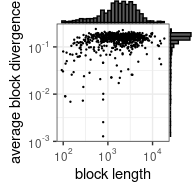
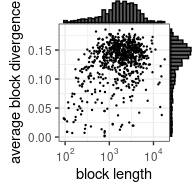
chisquare

diff --git a/README.md b/README.md
@@ -1,6 +1,6 @@
 segmut
 ================
-2022-12-10
+2022-12-12
 
 <!-- README.md is generated from README.Rmd. Please edit that file -->
 
@@ -18,9 +18,10 @@ You can install the development version of segmut from
 [GitHub](https://github.com/) with:
 
 ``` r
+# detach("package:segmut", unload=TRUE)
 # install.packages("devtools")
 # Sys.unsetenv("GITHUB_PAT")
-# install.packages("/home/misha/Documents/Development/segmut/", repos = NULL, type = "source")
+# install.packages("/home/misha/Documents/Development/segmut/", repos = NULL, type = "source",force=TRUE)
 devtools::install_github("mishashe/segmut")
 ```
 
@@ -58,12 +59,13 @@ library(scales)
 #> 
 #>     col_factor
 library(ggExtra)
+library(stringi)
 ```
 
 To set parameters
 
 ``` r
-Kmin <- 100
+Kmin <- 10
 ```
 
 To generate example of genome of length `L` with vector of mutation
@@ -85,7 +87,7 @@ breaks:
 To find optimal breaks locations given `n=3` number of breaks
 
 ``` r
-res <- getBreaks(muts = muts, L = L, Kmin=Kmin, n=3)
+res <- getBreaksChiSquare(muts = muts, L = L, Kmin=Kmin, n=3)
 ```
 
 To plot the results
@@ -112,11 +114,7 @@ breaks and their locations:
 To find optimal number of breaks
 
 ``` r
-breaks <- getNumberBreaks(muts,L=L,Kmin=Kmin,pThreshold=0.05)
-#> [1] 0
-#> [1] 1.194988e-09 4.185378e-01
-#> [1] 5.534259e-01 2.758467e-01 9.756934e-05
-#> [1] 0.9308560 0.9950918 0.6903301 0.6896496
+breaks <- getNumberBreaksChiSquare(muts,L=L,Kmin=Kmin)
 ```
 
 To plot the results
@@ -148,22 +146,118 @@ system(paste0("nucmer --mum --prefix=",datadir,"align ",file1," ",file2), intern
 #> character(0)
 alignment <- system(paste0("show-aligns -w 500000 ", datadir,"align.delta NZ_CP033020.1 NZ_AP026948.1"), intern = TRUE, wait=TRUE)
 alignment <- alignment[str_detect(alignment,"\\^")]
+alignment <- lapply(1:length(alignment),function(i){gsub("(\\^)\\1{1,}", "\\1", alignment[[i]])}) # removing adjacent mutations
 divergence <- sum(str_count(alignment,"\\^"))/sum(nchar(alignment))
-divergences <- (str_count(alignment,"\\^"))/(nchar(alignment))
+block_divergences <- (str_count(alignment,"\\^"))/(nchar(alignment))
 Ls <- nchar(alignment)
+r <- stri_locate_all(pattern = '^', alignment, fixed = TRUE)
+rs <- c()
+for (i in order(-nchar(alignment))) rs <- c(rs,diff(r[[i]][,1]))
 ```
 
 Plotting divergences and lengths of the alignment blocks (not segmented
 ones):
 
 ``` r
-p <- ggplot(data=data.frame(Ls=Ls,divergences=divergences), aes(Ls, divergences)) + 
+p <- ggplot(data=data.frame(Ls=Ls,block_divergences=block_divergences), aes(Ls, block_divergences)) + 
           geom_point(size=0.2) +
           theme_bw() +
           scale_x_continuous(trans='log10',breaks = 10^(-10:10), labels = trans_format("log10", math_format(10^.x))) +
-          scale_y_continuous(trans='log10',breaks = 10^(-10:10), labels = trans_format("log10", math_format(10^.x))) +
+          # scale_y_continuous(trans='log10',breaks = 10^(-10:10), labels = trans_format("log10", math_format(10^.x))) +
           ylab("average block divergence") + xlab("block length") 
   ggExtra::ggMarginal(p, type = "histogram")
 ```
 
-<img src="man/figures/README-blocks-1.png" width="100%" />
+<img src="man/figures/README-blocks-1.png" width="100%" /> In total
+there are 733 blocks with the total length of 1746795 bp.
+
+Segmenting the blocks using segmut package:
+
+``` r
+Ks <- c()
+taus <- c()
+start_time <- Sys.time()
+for (i in order(-nchar(alignment)))
+{
+  L <- nchar(alignment[[i]])
+  rtemp <- r[[i]][,1]
+  muts <- sort(rtemp + sample(0:0,length(rtemp),replace=TRUE))
+  breaks <- sort(getNumberBreaksChiSquare(muts,L=L,Kmin=1))
+  breaks0L <- c(0,breaks,L)
+  for (j in 1:(length(breaks0L)-1))
+  {
+    Ks <- c(Ks, breaks0L[j+1]-breaks0L[j]+1)
+    taus <- c(taus, sum(muts<breaks0L[j+1] & muts>breaks0L[j])/(breaks0L[j+1]-breaks0L[j]+1))
+  }
+}
+end_time <- Sys.time()
+print(end_time - start_time)
+#> Time difference of 8.159166 mins
+```
+
+Plotting divergences and lengths of the segments:
+
+``` r
+p <- ggplot(data=data.frame(Ks=Ks,taus=taus), aes(Ks, taus)) + 
+          geom_point(size=0.2) +
+          theme_bw() +
+          scale_x_continuous(trans='log10',breaks = 10^(-10:10), labels = trans_format("log10", math_format(10^.x))) +
+          # scale_y_continuous(trans='log10',breaks = 10^(-10:10), labels = trans_format("log10", math_format(10^.x))) +
+          ylab("segment divergence") + xlab("segment length") + 
+          geom_smooth(method="loess",se=TRUE) 
+  ggExtra::ggMarginal(p, type = "histogram")
+```
+
+<img src="man/figures/README-plot segments-1.png" width="100%" />
+
+Calculating empirical and pseudotheoretical MLDs:
+
+``` r
+rB <- c(seq(0.5,35.5,3),10^seq(log10(35.5)+0.1,4.8,0.1))
+rV <- 0.5*(rB[-length(rB)]+rB[-1])
+pH <- hist(rs,breaks=rB,plot=FALSE)
+
+mPT <- rV*0
+for (ir in 1:length(rV)) 
+{
+  mPT[ir] <- sum((Ks>rV[ir])*(2*taus+(Ks-rV[ir])*taus^2)*exp(-rV[ir]*taus))
+}
+for (iK in 1:length(Ks)) 
+{
+  ir <- which(Ks[iK]<=rB[2:length(rB)] & Ks[iK]>=rB[1:(length(rB)-1)])
+  mPT[ir] <- mPT[ir] + exp(-taus[iK]*Ks[iK])/diff(rB)[ir]
+}
+
+mBlocks <- rV*0
+for (ir in 1:length(rV)) 
+{
+  mBlocks[ir] <- sum((Ls>rV[ir])*(2*block_divergences+(Ls-rV[ir])*block_divergences^2)*exp(-rV[ir]*block_divergences))
+}
+for (iL in 1:length(Ls)) 
+{
+  ir <- which(Ls[iL]<=rB[2:length(rB)] & Ls[iL]>=rB[1:(length(rB)-1)])
+  mBlocks[ir] <- mBlocks[ir] + exp(-block_divergences[iL]*Ls[iL])/diff(rB)[ir]
+}
+
+Ktot <- sum(Ls)
+mExp <- (2*divergence+(Ktot-rV)*divergence^2)*exp(-rV*divergence)
+dat <- data.frame(rV=rV,mE=pH$counts/diff(rB),mPT=mPT, mExp=mExp,mBlocks=mBlocks)
+```
+
+Plotting empirical and pseudotheoretical MLDs:
+
+``` r
+ggplot(data=dat, aes(rV, mE)) + 
+          geom_line(aes(rV, mPT),col="blue", size=0.2) +
+          geom_line(aes(rV, mExp),col="grey", size=0.5,linetype = "solid") +
+          geom_line(aes(rV, mBlocks),col="red", size=0.2) +
+          theme_bw() +
+          scale_x_continuous(limits = c(1e0, 1e3),trans='log10',breaks = 10^(-10:10), labels = trans_format("log10", math_format(10^.x))) +
+          scale_y_continuous(limits = c(1e-3, 1e5),trans='log10',breaks = 10^(-10:10), labels = trans_format("log10", math_format(10^.x))) +
+          geom_line(aes(rV,1e8/rV^3),linetype = "dashed") + 
+          geom_line(aes(rV,1e10/rV^4),linetype = "dotted") + 
+          geom_point(size=2,shape='o') +
+          xlab("r") + ylab("m(r)") 
+```
+
+<img src="man/figures/README-mld-1.png" width="100%" />
